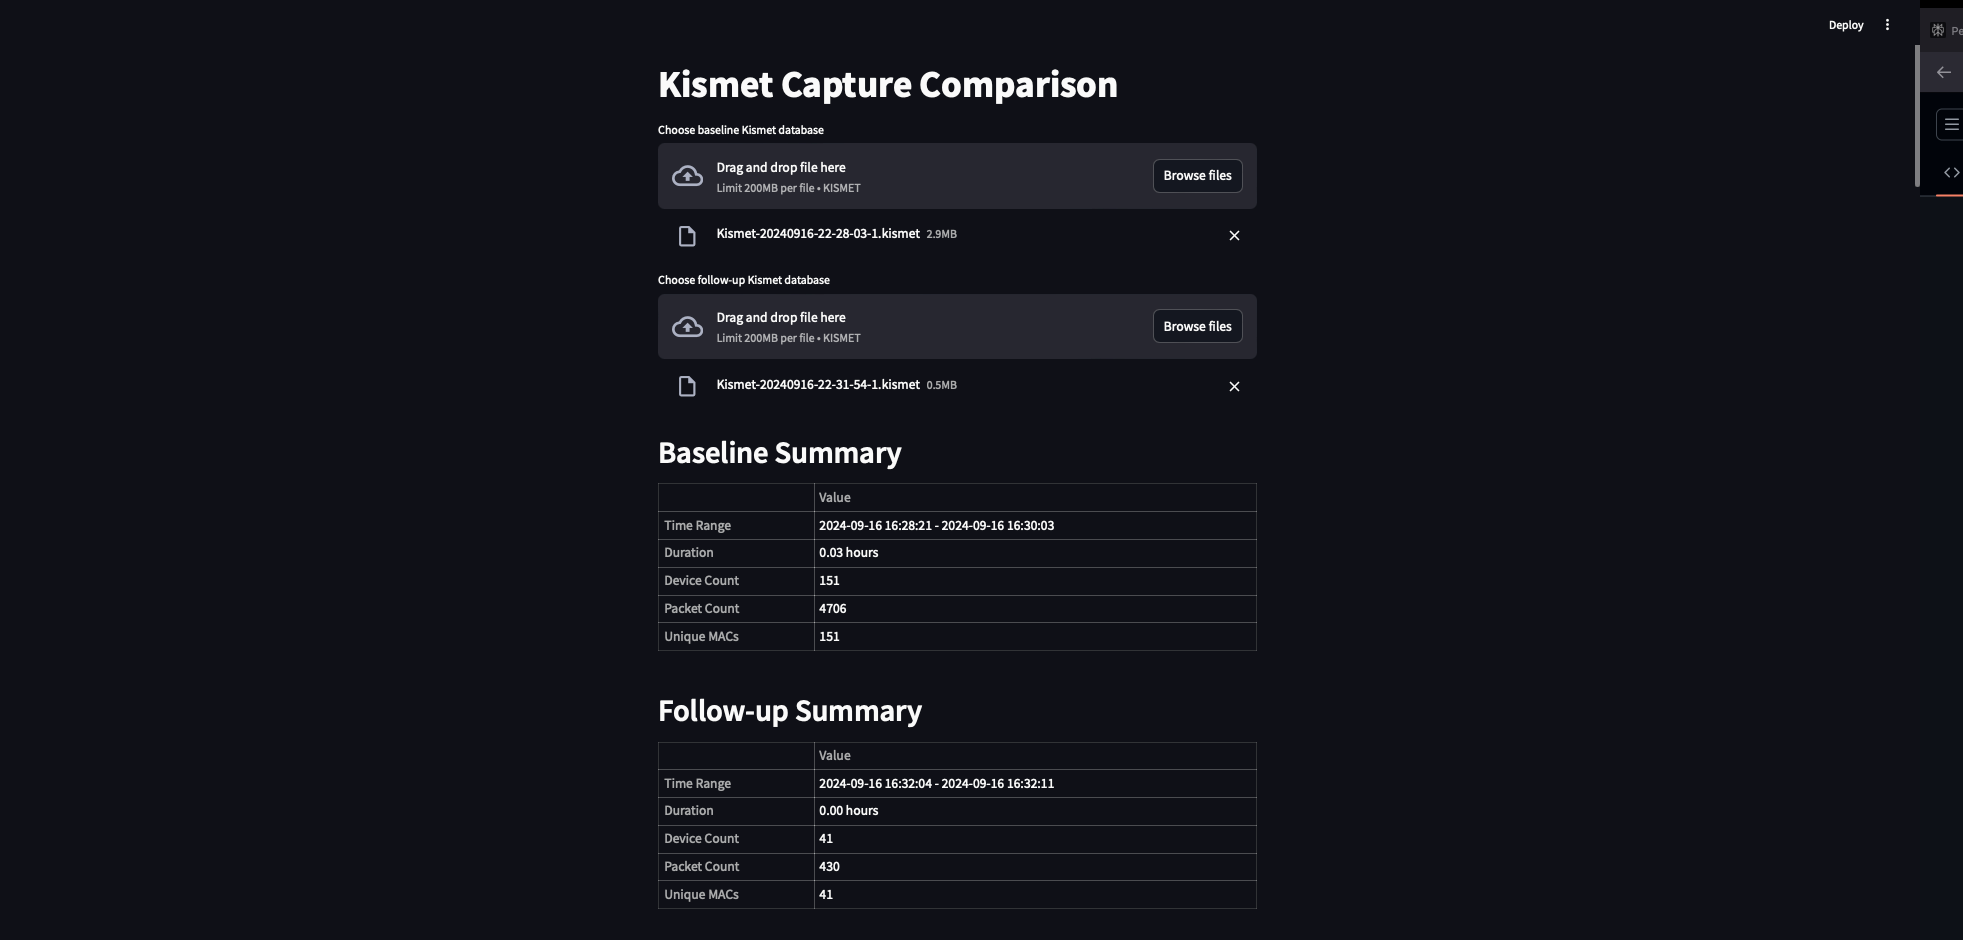
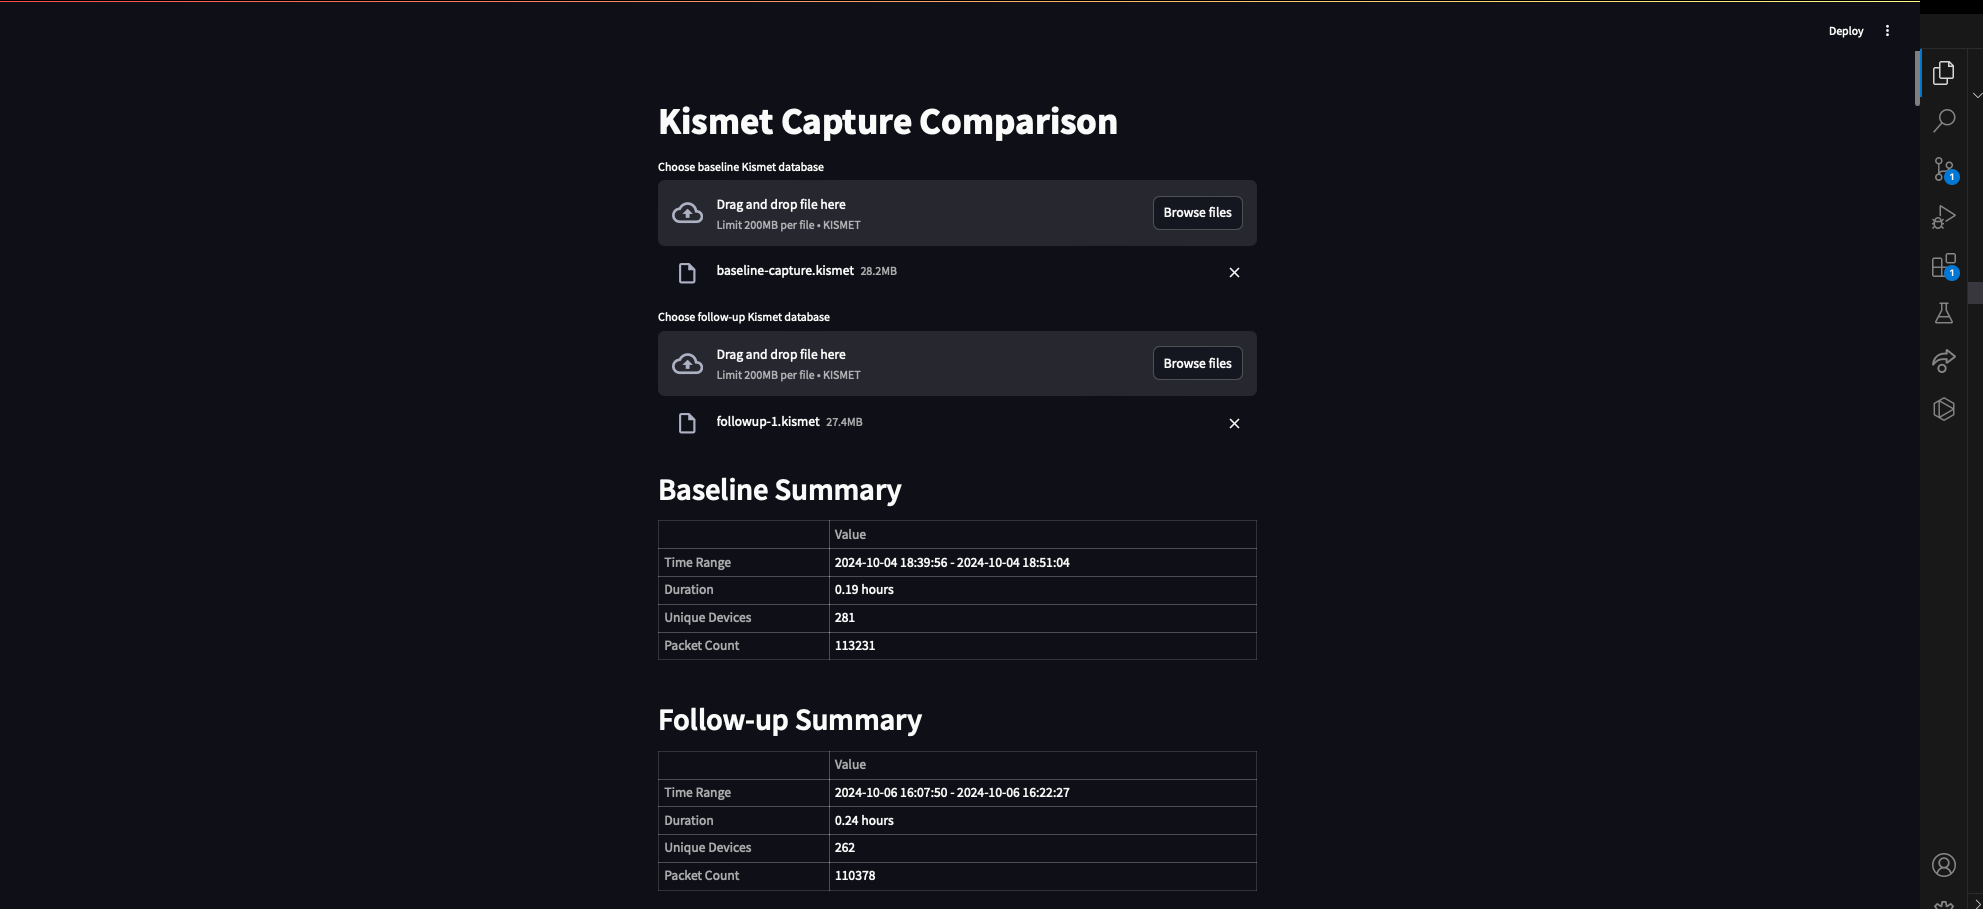
Refacator: Updating Device Count

diff --git a/signalsift.py b/signalsift.py
@@ -19,22 +19,19 @@ def get_summary(conn):
     cursor.execute("SELECT MIN(ts_sec), MAX(ts_sec) FROM packets")
     start_time, end_time = cursor.fetchone()
     
-    cursor.execute("SELECT COUNT(*) FROM devices")
-    device_count = cursor.fetchone()[0]
-    
     cursor.execute("SELECT COUNT(*) FROM packets")
     packet_count = cursor.fetchone()[0]
     
     cursor.execute("SELECT COUNT(DISTINCT devmac) FROM devices")
-    unique_macs = cursor.fetchone()[0]
+    unique_devices = cursor.fetchone()[0]
     
     return {
         "Time Range": f"{datetime.datetime.fromtimestamp(start_time)} - {datetime.datetime.fromtimestamp(end_time)}",
         "Duration": f"{(end_time - start_time) / 3600:.2f} hours",
-        "Device Count": device_count,
-        "Packet Count": packet_count,
-        "Unique MACs": unique_macs
+        "Unique Devices": unique_devices,
+        "Packet Count": packet_count
     }
+
 
 def get_device_packet_counts(conn):
     cursor = conn.cursor()
